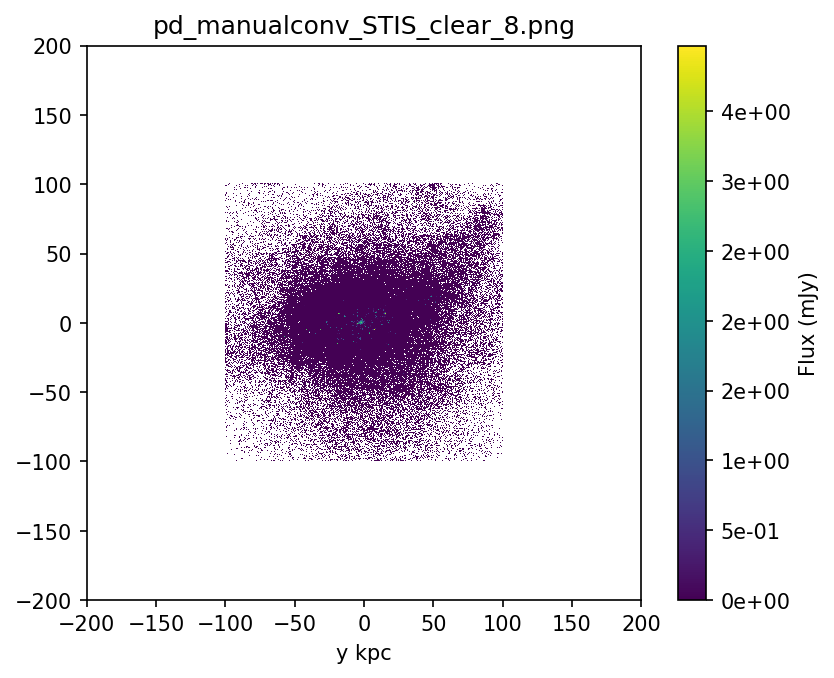
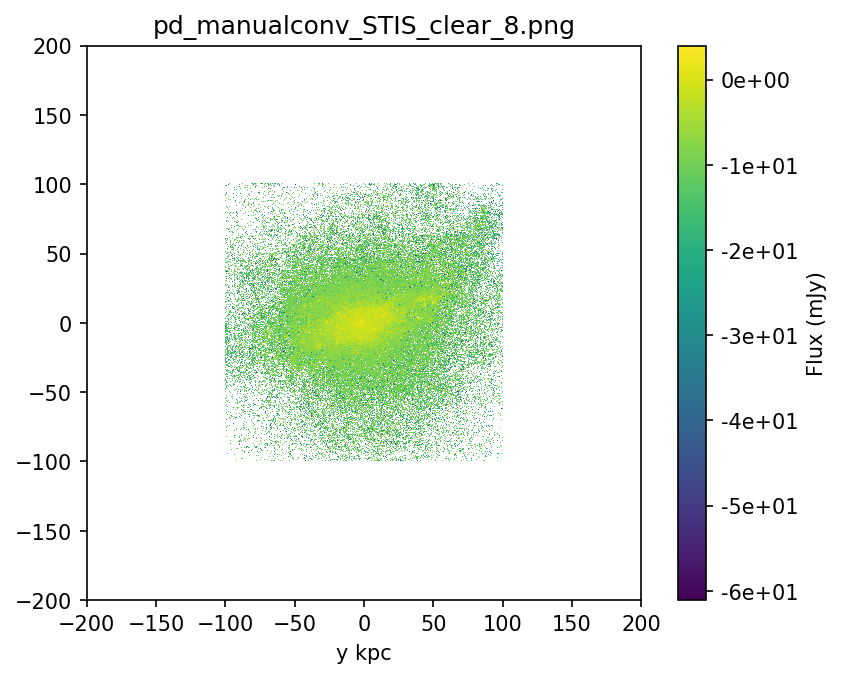
redid lowZ image but with no vmin in colormap

diff --git a/output/lowZ/make_image_single_wavelength.py b/output/lowZ/make_image_single_wavelength.py
@@ -1,0 +1,88 @@
+import numpy as np
+import matplotlib
+matplotlib.use('Agg')
+import matplotlib.pyplot as plt
+from hyperion.model import ModelOutput
+from astropy.cosmology import Planck13
+import astropy.units as u
+import os
+
+# ------------------------
+# modifiable header
+# ------------------------
+
+path = '/home/cmcclellan1010/pdwork/output/lowZ/'
+outpath = '/home/cmcclellan1010/pdwork/output/lowZ/'
+filename = 'example.134.rtout.image'
+
+
+m = ModelOutput(path+filename)
+wav = 0.66 #micron
+redshift = 0.001
+image_width = 200 #kpc
+
+# ------------------------
+
+
+distance = Planck13.luminosity_distance(redshift).cgs.value
+
+
+# Extract the image for the first inclination, and scale to 300pc. We
+# have to specify group=1 as there is no image in group 0.
+image = m.get_image(distance=distance, units='mJy')
+
+
+# Open figure and create axes
+fig = plt.figure()
+ax = fig.add_subplot(111)
+
+
+# Calculate the image width in kpc
+w = image.x_max * u.cm
+w = w.to(u.kpc)
+
+
+# Manually combine wavelengths according to filter transmission function
+MANUAL_FILTER_CONVOLUTION = True
+MANUAL_FILTER_CONVOLUTION_FILE = '/home/cmcclellan1010/powderday/filters/STIS_clear_8.filter'
+
+if MANUAL_FILTER_CONVOLUTION:
+    filter_file = np.loadtxt(MANUAL_FILTER_CONVOLUTION_FILE)
+    images = [image.val[0, :, :, i] for i in range(len(image.wav))]
+    weights = filter_file[:,1]
+    image_data = np.average(images, axis=0, weights=weights)
+    image_suffix = 'manualconv'
+else:
+    # Find the closest wavelength
+    iwav = np.argmin(np.abs(wav - image.wav))
+    image_data = image.val[0, :, :, iwav]
+    if len(image.wav) == 1:
+        image_suffix = 'autoconv'
+    else:
+        image_suffix = str(int(1000*wav))+'nm'
+
+# Save .dat file with image data
+SAVE = True
+
+output_file_path = outpath+'pd_'+image_suffix+'_'+os.path.splitext(MANUAL_FILTER_CONVOLUTION_FILE)[0].split('/')[-1]
+file_path = 'pd_'+image_suffix+'_'+os.path.splitext(MANUAL_FILTER_CONVOLUTION_FILE)[0].split('/')[-1]
+
+if SAVE:
+    np.savetxt(output_file_path+'.dat', image_data)
+
+#plot the beast
+cax = ax.imshow(np.log(image_data), cmap=plt.cm.viridis, origin='lower', extent=[-w.value, w.value, -w.value, w.value])
+
+plt.xlim([-image_width,image_width])
+plt.ylim([-image_width,image_width])
+    
+
+# Finalize the plot
+ax.tick_params(axis='both', which='major', labelsize=10)
+ax.set_xlabel('x kpc')
+ax.set_xlabel('y kpc')
+
+
+plt.colorbar(cax,label='Flux (mJy)',format='%.0e')
+plt.title(file_path+'.png')
+fig.savefig(output_file_path+'.png', bbox_inches='tight',dpi=150)
